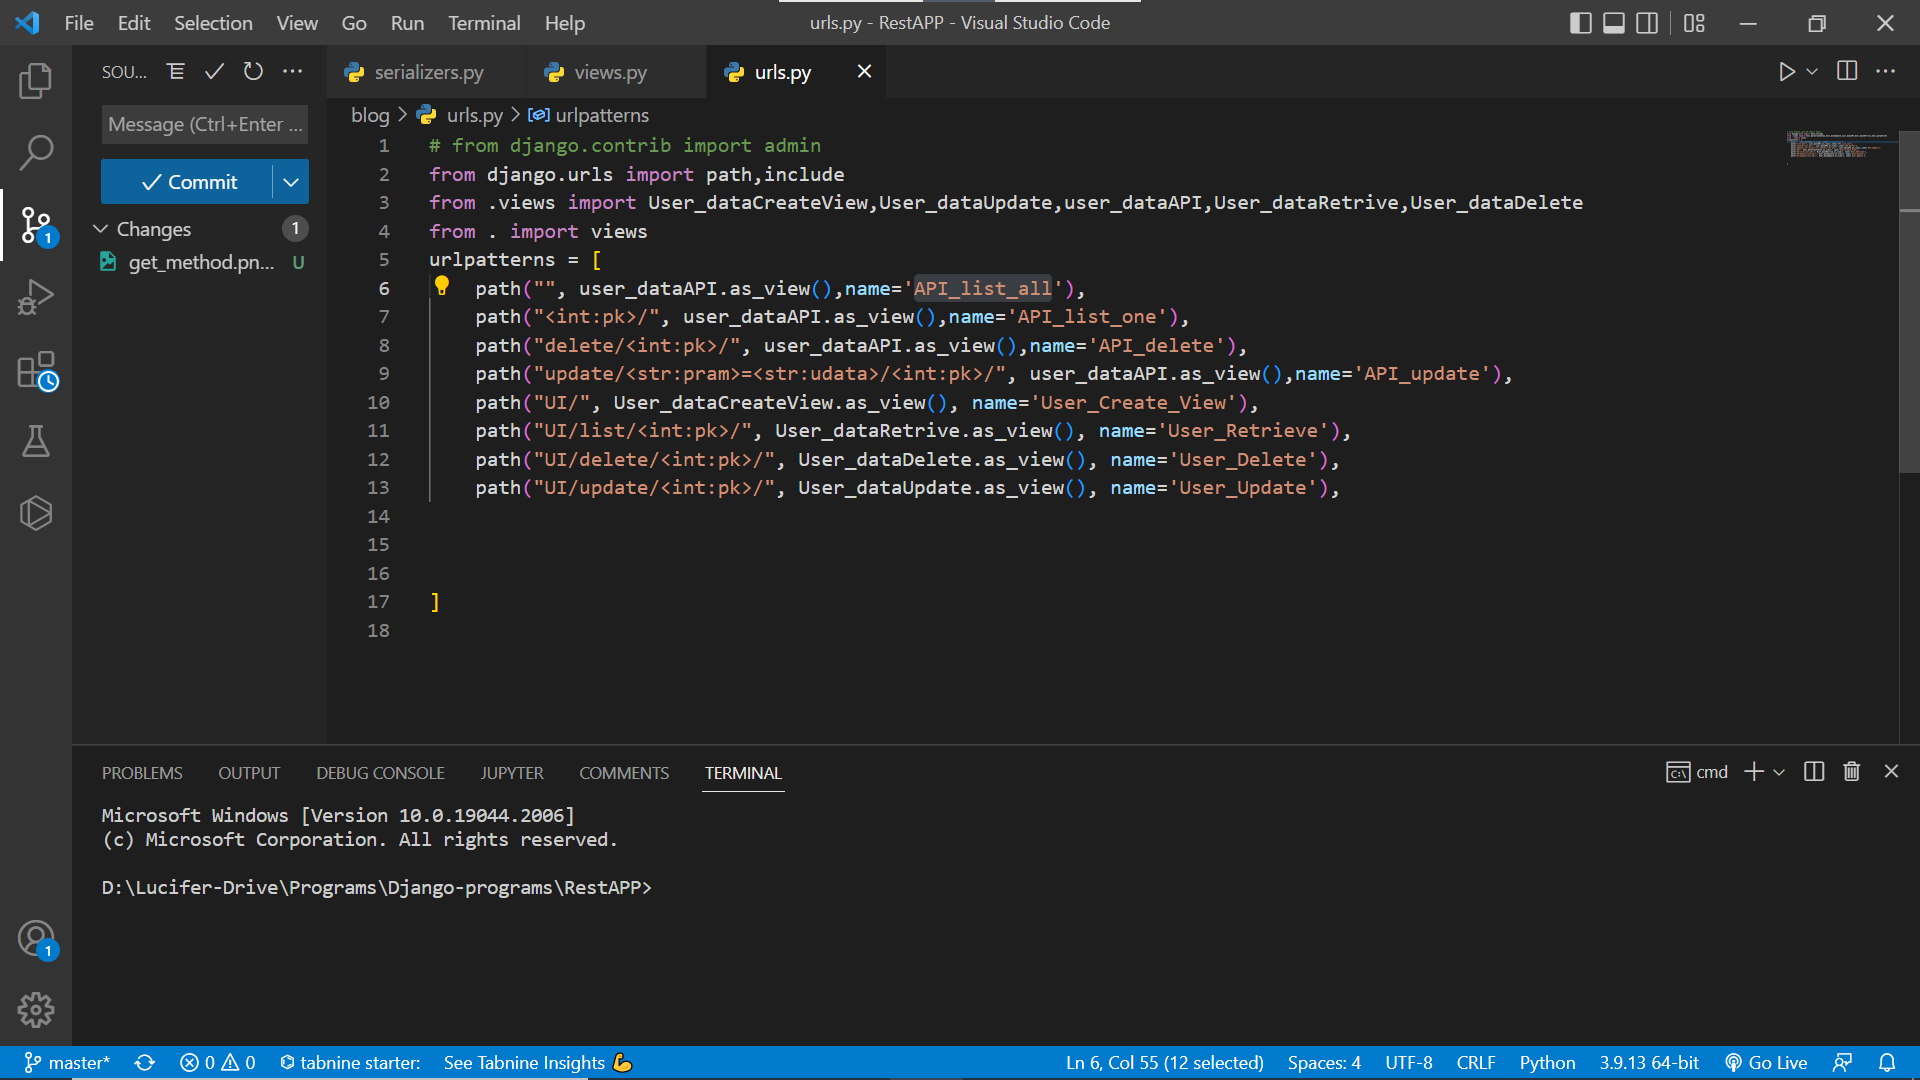
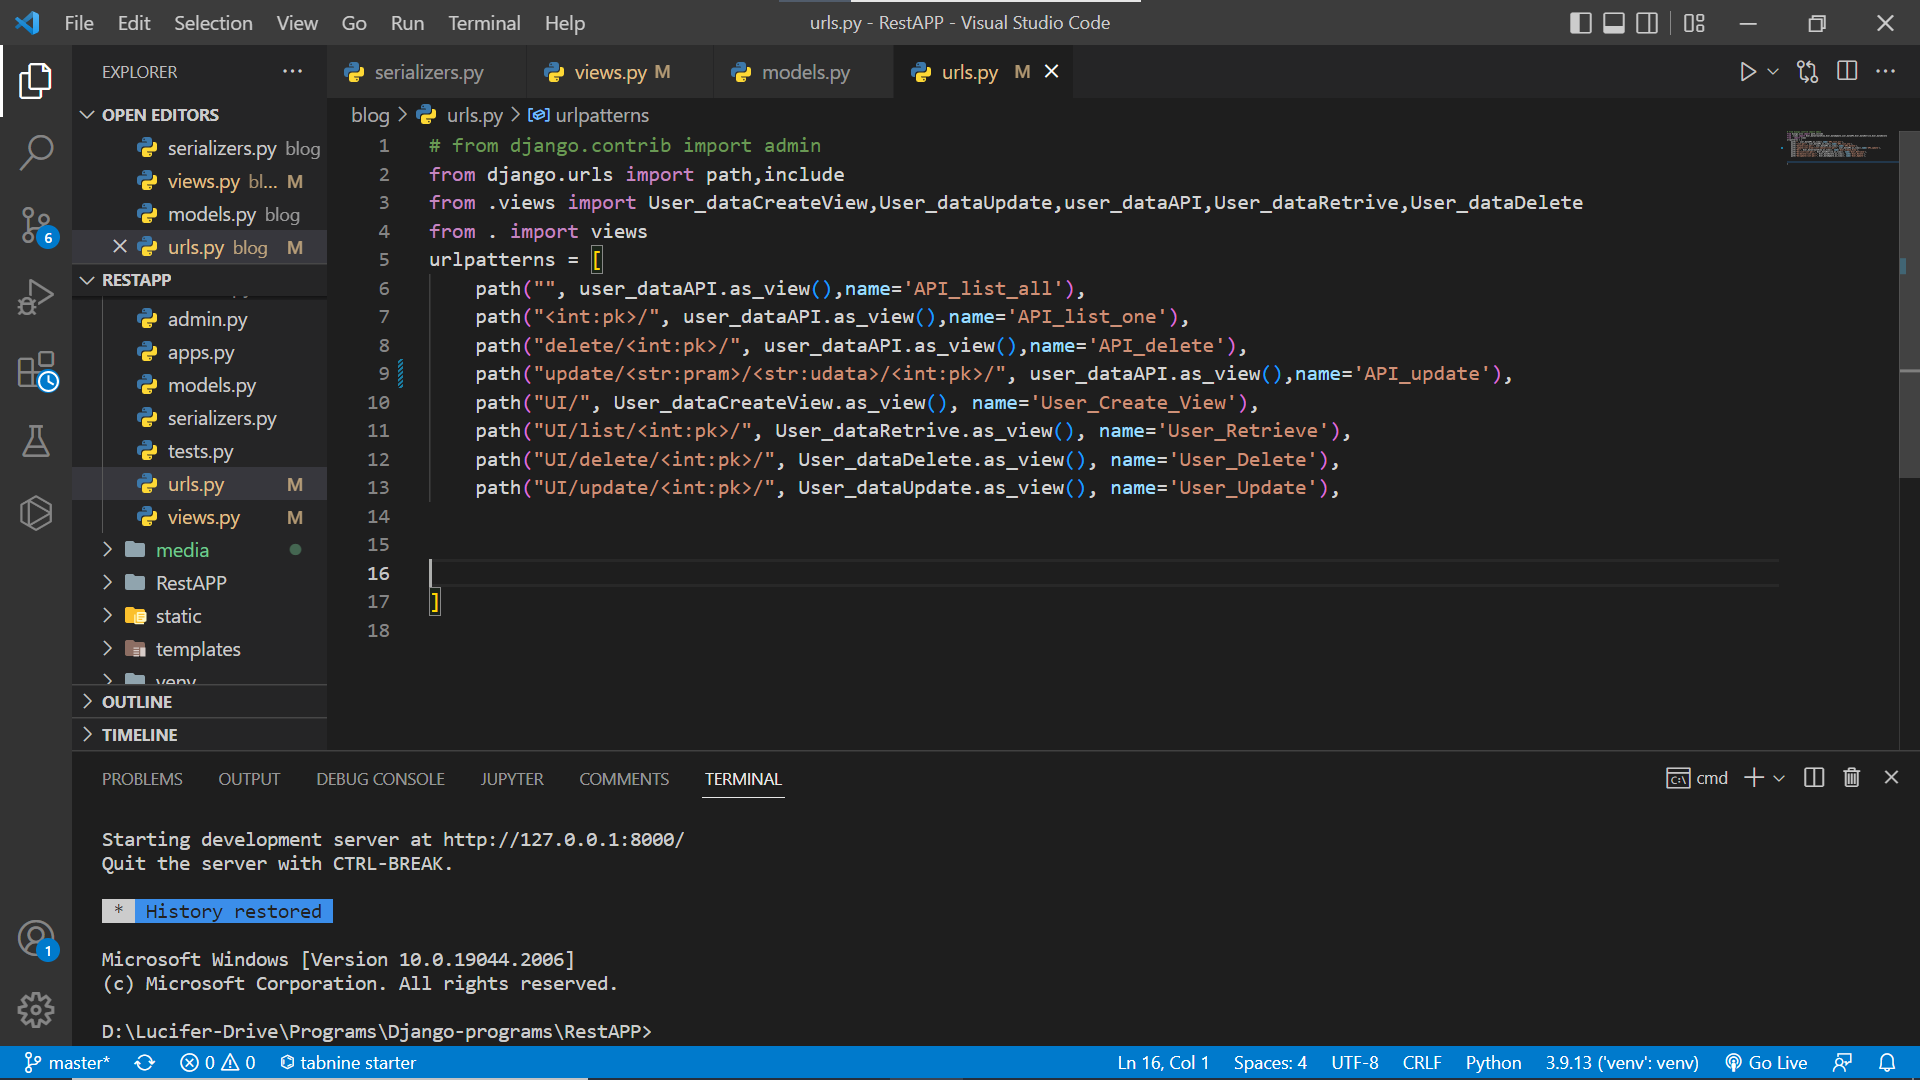
update: __patch__

diff --git a/blog/views.py b/blog/views.py
@@ -20,7 +20,7 @@ class user_dataAPI(APIView):
                          status=status.HTTP_201_CREATED))
         else:
             return (Response({'msg': 'Not Able to create user_data', 'status': 'Faliure', 'Candidate': serializer.data},
-                             status=status.HTTP_400_BAD_REQUEST))
+                             status=serializer.error_messages))
 
     def get(self, request,pk=None,format=None):
         candidates = user_data.objects.all()
@@ -50,20 +50,28 @@ class user_dataAPI(APIView):
 
             serializer = UserDataSerializers(query_set, many=False)
 
-        return(Response({'status':"Success",'candidate':serializer.data},status=status.HTTP_200_OK))
+        return(Response({'status':"Success DELETED",'candidate':serializer.data},status=status.HTTP_200_OK))
 
     def put(self, request,pram=None ,pk=None,udata=None, format=None):
         candidates = user_data.objects.all()
-        print(f"-----------Value of pk------->{pk}")
+        # print(f"-----------Value of pk------->{pk}")
+        # print(f"-----------Value of udata------->{udata}")
+        # print(f"-----------Value of pram------->{pram}")
         ids_available = [data.id for data in candidates]
 
-        if (pk is not None) and (pk in ids_available) and (pram is not None):
+        if (pk is not None) and (pk in ids_available) and (pram is not None) and (udata is not None):
             query_set = candidates.get(id=pk)
-            query_set.pram=udata
+            if pram=='username':query_set.username=udata
+            if pram=='DOB':query_set.DOB=udata
+            if pram=='gender':query_set.gender=udata
+            if pram=='email':query_set.email=udata
+            if pram=='resume':query_set.resume=udata
+            if pram=='state':query_set.state=udata
+            
             query_set.save()
             serializer = UserDataSerializers(query_set, many=False)
 
-        return (Response({'status': "Success", 'candidate': serializer.data}, status=status.HTTP_202_ACCEPTED))
+        return (Response({'status': "Success uPDATED", 'candidate': serializer.data}, status=status.HTTP_202_ACCEPTED))
 
 
 class User_dataCreateView(generics.ListCreateAPIView):

diff --git a/blog/urls.py b/blog/urls.py
@@ -6,7 +6,7 @@ urlpatterns = [
     path("", user_dataAPI.as_view(),name='API_list_all'),
     path("<int:pk>/", user_dataAPI.as_view(),name='API_list_one'),
     path("delete/<int:pk>/", user_dataAPI.as_view(),name='API_delete'),
-    path("update/<str:pram>=<str:udata>/<int:pk>/", user_dataAPI.as_view(),name='API_update'),
+    path("update/<str:pram>/<str:udata>/<int:pk>/", user_dataAPI.as_view(),name='API_update'),
     path("UI/", User_dataCreateView.as_view(), name='User_Create_View'),
     path("UI/list/<int:pk>/", User_dataRetrive.as_view(), name='User_Retrieve'),
     path("UI/delete/<int:pk>/", User_dataDelete.as_view(), name='User_Delete'),
